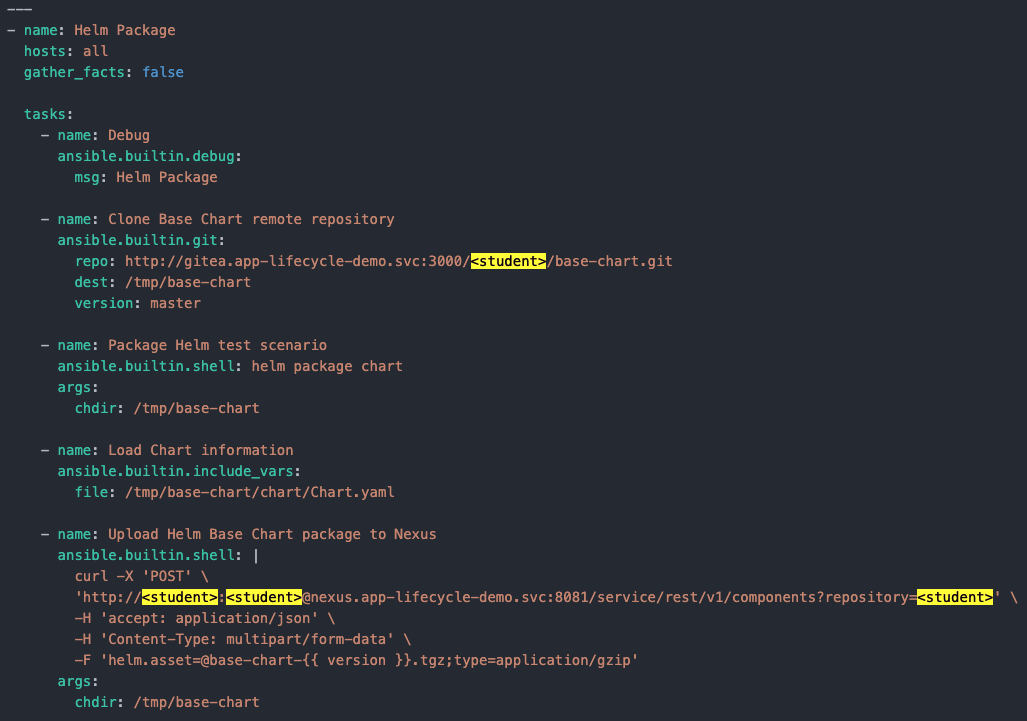
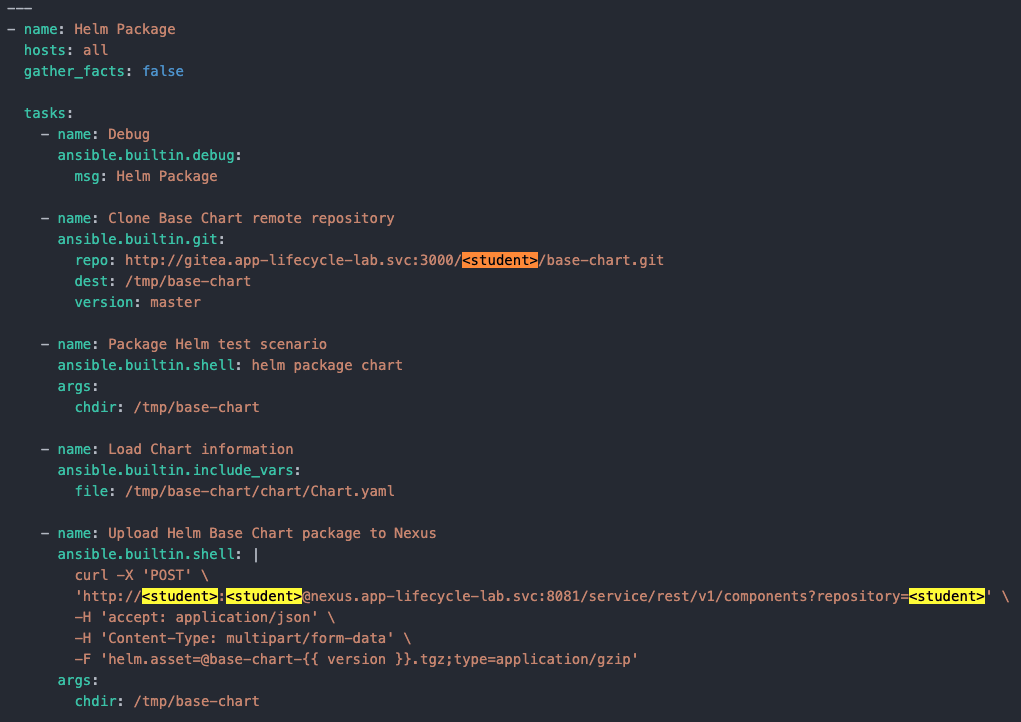
[CI] Publish Documentation for daf723c6d34d8348b6403f38693383347580111b - daf723c6d34d8348b6403f38693383347580111b 🚀

diff --git a/ansible-helm-lifecycle/03-testing_environment.html b/ansible-helm-lifecycle/03-testing_environment.html
@@ -229,9 +229,45 @@ For testing purposes we&#8217;re using the image <strong>openshift/hello-openshi
 </tr>
 </table>
 </div>
-<div class="paragraph">
-<p>TODO: explain how to manually run the workflow!</p>
 </div>
+</div>
+<div class="sect2">
+<h3 id="run-manually"><a class="anchor" href="#run-manually"></a>Run Workflow Manually</h3>
+<div class="paragraph">
+<p>Before start working on our pipeline, let&#8217;s take a look at how to manually trigger the Workflow or pipeline in Ansible Automation Platform so we can test that everything we&#8217;re doing is working as expected:</p>
+</div>
+<div class="olist arabic">
+<ol class="arabic">
+<li>
+<p>Open <strong>Ansible Automation Platform</strong></p>
+</li>
+<li>
+<p>Go to: <strong>Resources</strong> &gt; <strong>Templates</strong> &gt; <strong>[WF] Base Chart Pipeline</strong></p>
+</li>
+<li>
+<p>Click on <strong>Launch</strong></p>
+</li>
+<li>
+<p>You will be automatically redirected to a view of the execution flow:</p>
+</li>
+</ol>
+</div>
+<div class="imageblock">
+<div class="content">
+<img src="_images/3-wf-view.png" alt="3 wf view">
+</div>
+</div>
+<div class="admonitionblock important">
+<table>
+<tr>
+<td class="icon">
+<i class="fa icon-important" title="Important"></i>
+</td>
+<td class="content">
+If you have not implemented the <strong>Delete Namespace</strong> task or your test failed before deleting it, remember to manually remove the namespace. Go to <strong>OpenShift</strong> &gt; <strong>Project</strong> &gt; select the testing namespace &gt; <strong>Actions</strong> (top right corner) &gt; <strong>Delete Project</strong>.
+</td>
+</tr>
+</table>
 </div>
 </div>
 <div class="sect1">
@@ -281,6 +317,18 @@ Use the collection <strong><a href="https://docs.ansible.com/ansible/latest/coll
 </tr>
 </table>
 </div>
+<div class="admonitionblock caution">
+<table>
+<tr>
+<td class="icon">
+<i class="fa icon-caution" title="Caution"></i>
+</td>
+<td class="content">
+Use the object <strong>Project</strong> with api_version <strong>project.openshift.io/v1</strong> to create the namespace.
+</td>
+</tr>
+</table>
+</div>
 </div>
 <div class="tab-pane" aria-labelledby="tabset1_solution">
 <div class="ulist">
@@ -301,8 +349,8 @@ Use the collection <strong><a href="https://docs.ansible.com/ansible/latest/coll
 <pre class="highlightjs highlight"><code class="language-yml hljs" data-lang="yml">- name: Create Base Chart test namespace
   kubernetes.core.k8s:
     definition:
-      apiVersion: v1
-      kind: Namespace
+      apiVersion: project.openshift.io/v1
+      kind: Project
       metadata:
         name: "&lt;student&gt;-base-chart"
     state: present</code></pre>
@@ -413,7 +461,7 @@ Review <strong><a href="https://docs.ansible.com/ansible/latest/collections/kube
 <div class="content">
 <pre class="highlightjs highlight"><code class="language-yml hljs" data-lang="yml">- name: Clone Base Chart remote repository
   ansible.builtin.git:
-    repo: <a href="http://gitea.app-lifecycle-demo.svc:3000/&lt;student&gt;/base-chart.git" class="bare">http://gitea.app-lifecycle-demo.svc:3000/&lt;student&gt;/base-chart.git</a>
+    repo: <a href="http://gitea.app-lifecycle-lab.svc:3000/&lt;student&gt;/base-chart.git" class="bare">http://gitea.app-lifecycle-lab.svc:3000/&lt;student&gt;/base-chart.git</a>
     dest: /tmp/base-chart
     version: master</code></pre>
 </div>
@@ -614,8 +662,8 @@ Use the collection <strong><a href="https://docs.ansible.com/ansible/latest/coll
 <pre class="highlightjs highlight"><code class="language-yml hljs" data-lang="yml">- name: Delete Base Chart test namespace
   kubernetes.core.k8s:
     definition:
-      apiVersion: v1
-      kind: Namespace
+      apiVersion: project.openshift.io/v1
+      kind: Project
       metadata:
         name: "&lt;student&gt;-base-chart"
     state: absent</code></pre>

diff --git a/ansible-helm-lifecycle/02-first_execution.html b/ansible-helm-lifecycle/02-first_execution.html
@@ -199,10 +199,10 @@ During this laboratory exercises you will see <strong>&lt;student&gt;</strong> i
 <h2 id="webhook"><a class="anchor" href="#webhook"></a>Configure Webhook</h2>
 <div class="sectionbody">
 <div class="paragraph">
-<p>We have created a Helm Chart named <strong>base-chart</strong> that will help Operation Teams with cluster management. In order to make upgrades or fix issues in our <strong>base-chart</strong> we are going to create a pipeline that manages the Helm Chart lifecycle.</p>
+<p>We have created a Helm Chart named <strong>base-chart</strong> that will help Operation Teams with cluster management and also will help Application Teams with application deployments. In order to make upgrades or fix issues in our <strong>base-chart</strong> we are going to create a pipeline that manages the Helm Chart lifecycle.</p>
 </div>
 <div class="paragraph">
-<p>The first step is creating a webhook in our <strong>AAP Workflow</strong> (pipeline) and configure it in <strong>Gitea base-chart</strong> repository, so we can trigger it when new features or fixes are commited in our repository.</p>
+<p>The first step is creating a webhook in our <strong>AAP Workflow</strong> (pipeline) and configure it in <strong>Gitea base-chart</strong> repository so we can trigger it when new features or fixes are commited in our repository.</p>
 </div>
 <div class="sect2">
 <h3 id="_create_webhook"><a class="anchor" href="#_create_webhook"></a>Create Webhook</h3>
@@ -306,9 +306,6 @@ Copy the <strong>Webhook Key</strong> and the <strong>Webhook URL</strong>.
 <img src="_images/2-first-nexus-playbook.png" alt="2 first nexus playbook">
 </div>
 </div>
-<div class="paragraph">
-<p>TODO change image</p>
-</div>
 </div>
 </div>
 <div class="sect1">
@@ -392,9 +389,22 @@ Copy the <strong>Webhook Key</strong> and the <strong>Webhook URL</strong>.
 <p>Login into <strong>Gitea</strong> and open <strong>demo-app</strong> repository.</p>
 </li>
 <li>
-<p>Open the file <strong>deploy/Chart.yaml</strong> and update the chart reference (<mark>replace &lt;student&gt; with your student id</mark>):</p>
+<p>Open the file <strong>deploy/Chart.yaml</strong> and update:</p>
+<div class="ulist">
+<ul>
+<li>
+<p>Repository: change <strong>/helm</strong> with your student id.</p>
+</li>
+<li>
+<p>Version: update to <strong>1.0.0</strong>.</p>
 </li>
 </ul>
+</div>
+</li>
+</ul>
+</div>
+<div class="paragraph">
+<p>Example (<mark>replace &lt;student&gt; with your student id</mark>):</p>
 </div>
 <div class="listingblock console-input">
 <div class="content">
@@ -451,6 +461,18 @@ dependencies:
 <div class="content">
 <img src="_images/2-first-demo-app.png" alt="2 first demo app">
 </div>
+</div>
+<div class="admonitionblock caution">
+<table>
+<tr>
+<td class="icon">
+<i class="fa icon-caution" title="Caution"></i>
+</td>
+<td class="content">
+your web browser could be caching previous version. Use <strong>Ctrl + F5</strong> or <strong>Cmd-Shift-R</strong> on MacOS to refresh your cache.
+</td>
+</tr>
+</table>
 </div>
 <div class="ulist">
 <ul>

diff --git a/ansible-helm-lifecycle/04-validations.html b/ansible-helm-lifecycle/04-validations.html
@@ -184,6 +184,18 @@
 <div class="paragraph">
 <p>Now that the namespace has been created and the test <strong>base-chart</strong> has been installed, we can start performing some tests to be sure the <strong>base-chart</strong> is working as expected.</p>
 </div>
+<div class="admonitionblock important">
+<table>
+<tr>
+<td class="icon">
+<i class="fa icon-important" title="Important"></i>
+</td>
+<td class="content">
+Take a look at <a href="03-testing_environment.html#run-manually" class="xref page"><strong>Run Workflow Manually</strong></a> section to review how to test the Workflow manually.
+</td>
+</tr>
+</table>
+</div>
 <div class="paragraph">
 <p>The first thing that we should do is create a task to download the <strong>base-chart</strong> code and read the scenario1 values so we can perform some validations.</p>
 </div>
@@ -262,7 +274,7 @@ Use the collection <strong><a href="https://docs.ansible.com/ansible/latest/coll
 <div class="content">
 <pre class="highlightjs highlight"><code class="language-yml hljs" data-lang="yml">- name: Clone Base Chart remote repository
   ansible.builtin.git:
-    repo: <a href="http://gitea.app-lifecycle-demo.svc:3000/&lt;student&gt;/base-chart.git" class="bare">http://gitea.app-lifecycle-demo.svc:3000/&lt;student&gt;/base-chart.git</a>
+    repo: <a href="http://gitea.app-lifecycle-lab.svc:3000/&lt;student&gt;/base-chart.git" class="bare">http://gitea.app-lifecycle-lab.svc:3000/&lt;student&gt;/base-chart.git</a>
     dest: /tmp/base-chart
     version: master</code></pre>
 </div>
@@ -370,7 +382,7 @@ Use the collection <strong><a href="https://docs.ansible.com/ansible/latest/coll
     kind: Deployment
     namespace: "&lt;student&gt;-base-chart"
     label_selectors:
-      - app={{ helm_test_scenario }}
+      - app=scenario1
   ignore_errors: true
   register: scenario_deployment</code></pre>
 </div>
